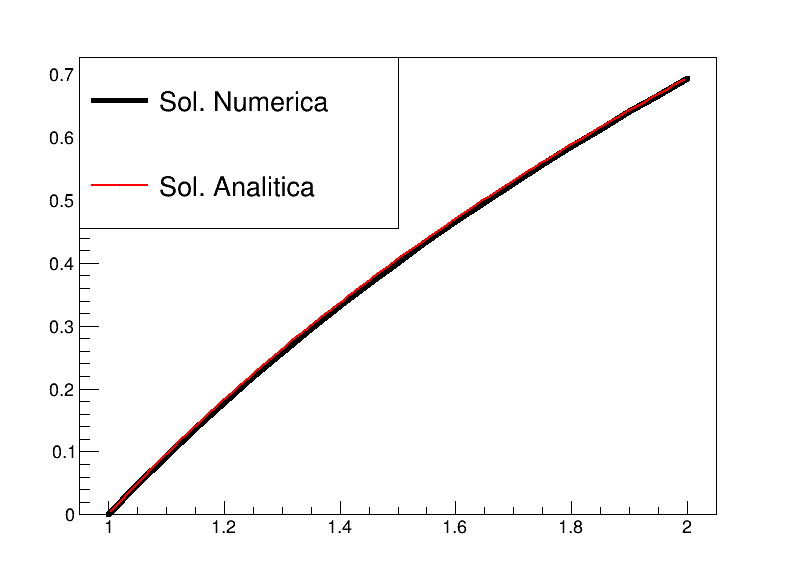
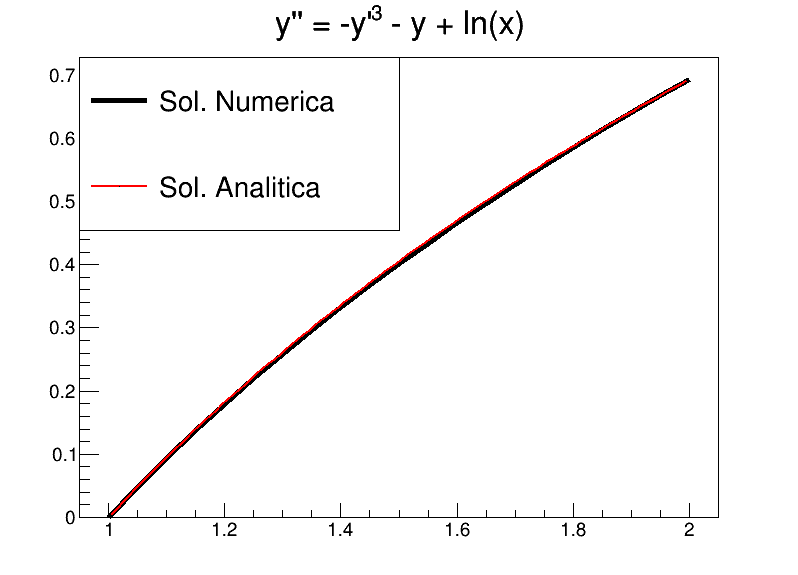
Cambios linear solutions

diff --git a/ShootingClass.cpp b/ShootingClass.cpp
@@ -14,23 +14,27 @@ Shooting::Shooting(double a, double b, double alpha, double beta, unsigned int N
     this->beta = beta;
     this->N = N;
     this->h = (b - a) / (double)N;
-    *f_lineal = *g;
+    f_lineal[0] = g[0];
+    f_lineal[1] = g[1];
+    f_lineal[2] = g[2];
 
     w = new double *[2];
     w[0] = new double[N + 1];
     w[1] = new double[N + 1]; // Inicializa cada una de las columnas con un array de N+1 entradas
+    this->w1 = 0.0;
+    this->w2 = 0.0;
     // u1[N] = {alpha};
     // u2[N] = {0.0};
     // v1[N] = {0.0};
     // v2[N] = {1.0};
-    u1 = new vector<double>(N);
-    u1->push_back(alpha);
-    u2 = new vector<double>(N);
-    u2->push_back(0.0);
-    v1 = new vector<double>(N);
-    v1->push_back(0.0);
-    v2 = new vector<double>(N);
-    v2->push_back(1.0);
+    u1 = new vector<double>(N+1);
+    u1->at(0) = alpha;
+    u2 = new vector<double>(N+1);
+    u2->at(0) = 0.0;
+    v1 = new vector<double>(N+1);
+    v1->at(0) = 0.0;
+    v2 = new vector<double>(N+1);
+    v2->at(0) = 1.0;
 }
 
 Shooting::Shooting(double a, double b, double alpha, double beta, unsigned int N, double (*g[3])(double, double, double), double TOL, int N_max)
@@ -113,10 +117,10 @@ double **Shooting::linear_solutions()
 
     w1 = alpha;
     w2 = (beta - u1->at(N)) / v1->at(N);
-
-    for (int i = 1; i < N + 1; i++)
+    w[0][0] = a;
+    for (int i = 0; i < N + 1; i++)
     {
-        w[i][1] = u1->at(i) + w2 * v1->at(i);
+        w[1][i] = u1->at(i) + w2 * v1->at(i);
     }
 
     return w;

diff --git a/main.cpp b/main.cpp
@@ -58,21 +58,21 @@ double fyp(double x, double y, double yp)
 
 int main()
 {
-    // double (*f[3])(double) = {p, q, r};
+    double (*f[3])(double) = {p, q, r};
     //  double w[11][2];
     //  LinearShooting(1.0, 2.0, 1.0, 2.0, 10, f, w);
     double (*f_no[3])(double, double, double) = {fun, fy, fyp};
 
-    // Shooting EDOb(1.0, 2.0, 1.0, 2.0, 10, f);
-    // double **w = EDOb.linear_solutions();
+    Shooting EDOb(1.0, 2.0, 1.0, 2.0, 10, f);
+    double **w = EDOb.linear_solutions();
 
-    Shooting EDO_No_Lin(1.0, 3.0, 17.0, 43.0 / 3.0, 20, f_no, 1e-5, 10);
-    double **w_no_lin = EDO_No_Lin.no_linear_solutions();
+    //Shooting EDO_No_Lin(1.0, 3.0, 17.0, 43.0 / 3.0, 20, f_no, 1e-5, 10);
+    //double **w_no_lin = EDO_No_Lin.no_linear_solutions();
 
     cout << "# x" << setw(12) << "y" << endl;
-    for (int i = 0; i < 21; i++)
+    for (int i = 0; i < 11; i++)
     {
-        cout << w_no_lin[0][i] << setw(12) << w_no_lin[1][i] << endl;
+        cout << w[0][i] << setw(12) << w[1][i] << endl;
     }
     return 0;
 }

diff --git a/Ejemplos no linear shooting/main.cpp b/Ejemplos no linear shooting/main.cpp
@@ -43,17 +43,17 @@ double r(double x)
 
 double fun(double x, double y, double yp)
 {
-    return 2*y*y*y;
+    return -yp*yp - y + log(x);
 }
 
 double fy(double x, double y, double yp)
 {
-    return 6*y*y;
+    return -1;
 }
 
 double fyp(double x, double y, double yp)
 {
-    return 0;
+    return -2*yp;
 }
 
 int main()
@@ -66,7 +66,7 @@ int main()
     // Shooting EDOb(1.0, 2.0, 1.0, 2.0, 10, f);
     // double **w = EDOb.linear_solutions();
 
-    Shooting EDO_No_Lin(-1.0, 0.0, 0.5, 0.33333333, 20, f_no, 1e-5, 10);
+    Shooting EDO_No_Lin(1, 2, 0.0, log(2), 20, f_no, 1e-5, 10);
     double **w_no_lin = EDO_No_Lin.no_linear_solutions();
 
     cout << "# x" << setw(12) << "y" << endl;

diff --git a/Ejemplos no linear shooting/graph.C b/Ejemplos no linear shooting/graph.C
@@ -1,0 +1,22 @@
+void graph(){
+    TCanvas* c = new TCanvas("c", "c", 800, 600);
+    TMultiGraph* multiG = new TMultiGraph();
+    TGraph* n = new TGraph("puntos.txt");
+    TF1* a = new TF1("num", "TMath::Log(x)", 1,2);
+    TGraph* aa = new TGraph(a);
+    n->SetLineWidth(5);
+    a->SetLineWidth(5);
+
+    multiG->Add(n, "AC");
+    multiG->Add(aa, "AC");
+    multiG->Draw("A");
+
+    TLegend* l = new TLegend(.1,.6,.5,.9,"");
+    l->AddEntry(n, "Sol. Numerica", "LP");
+    l->AddEntry(aa, "Sol. Analitica", "LP");
+    multiG->SetTitle("y'' = -y'^{3} - y + ln(x)");
+    l->Draw();
+
+
+    c->Print("Exe1.png");
+}
